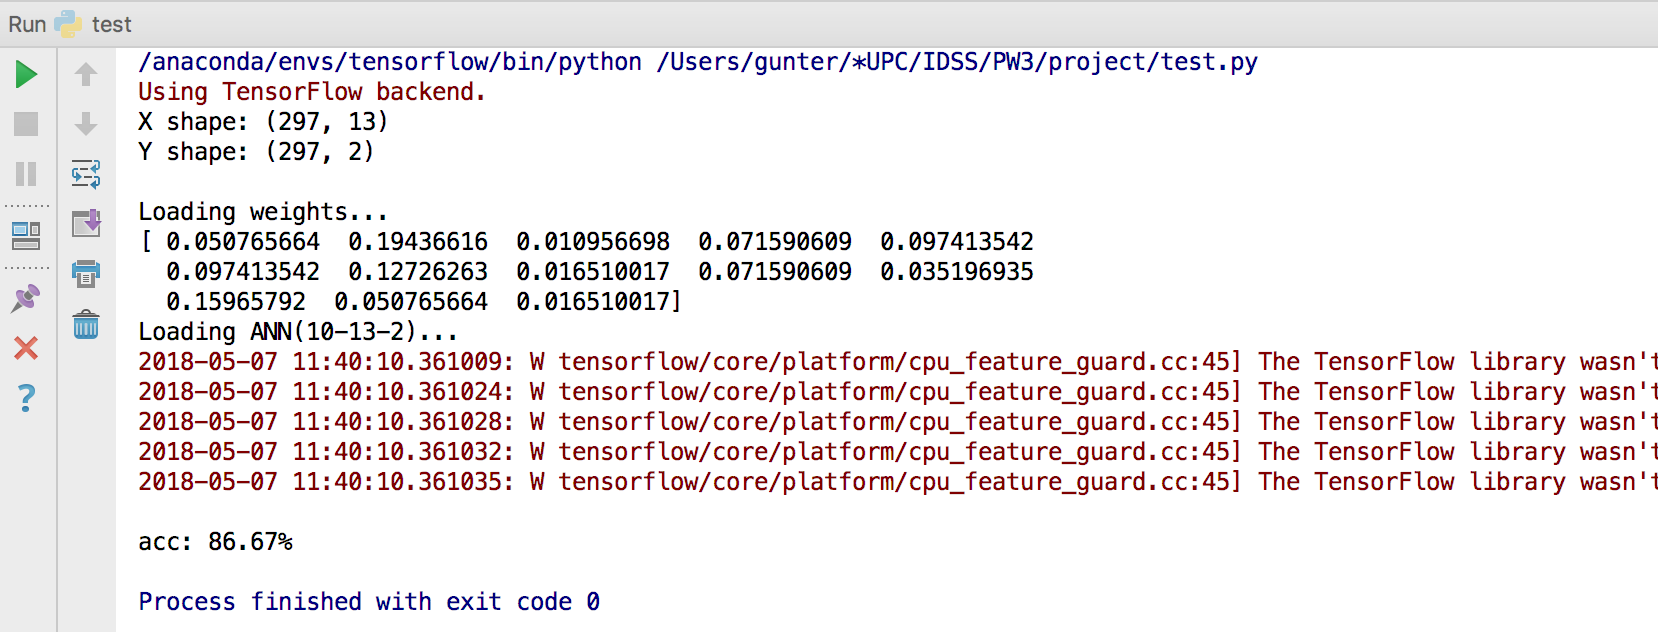
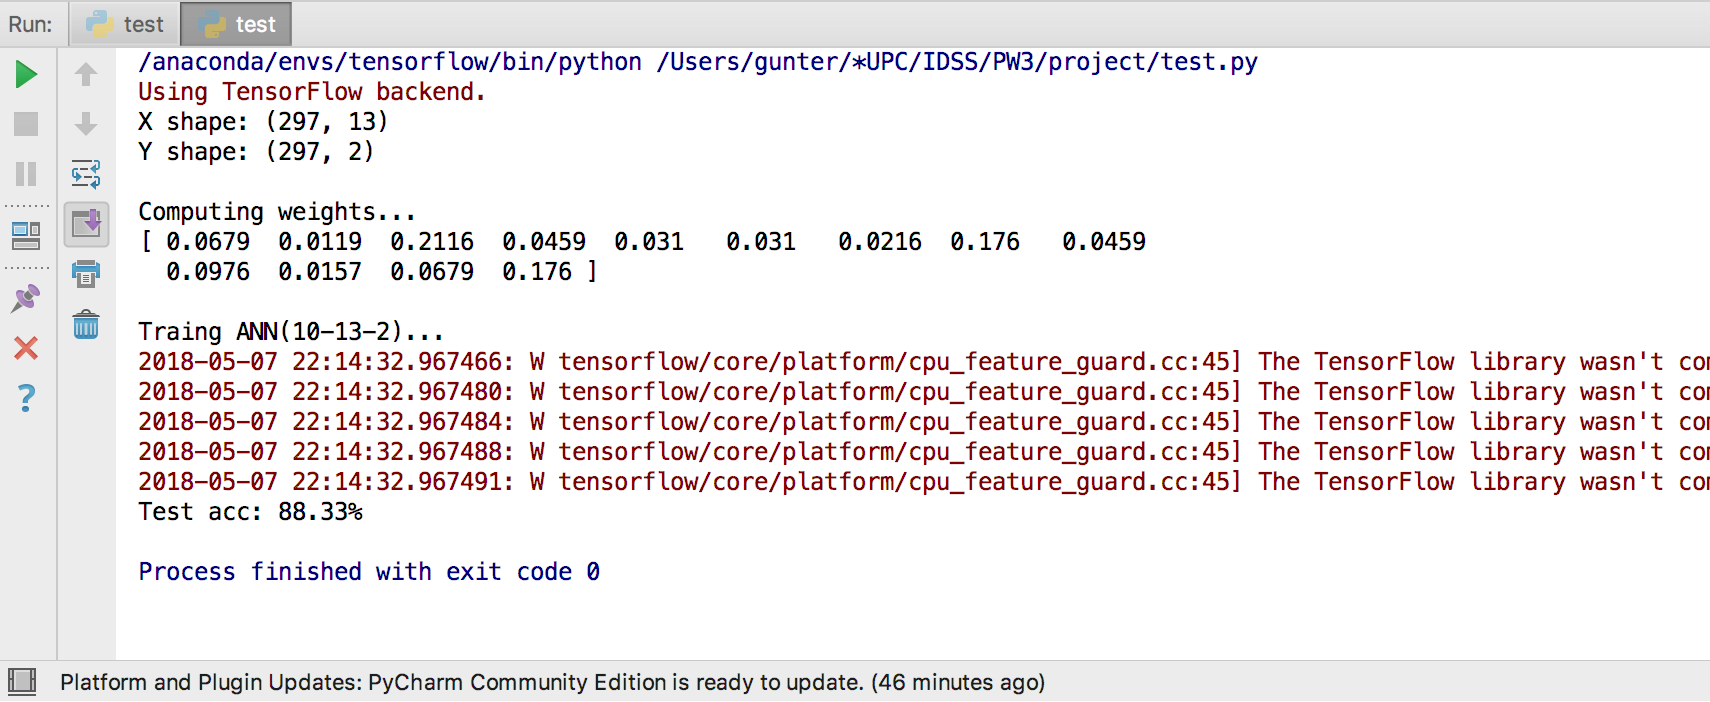
w.round(4)

diff --git a/faphy.py b/faphy.py
@@ -32,8 +32,10 @@ def get_weights():
 
     # Eigenvalue
     alpha = A.sum(axis=0)
-    w = alpha / A.sum()
-    # print('\nWeights:\n', w.round(4))
+    A2 = A / alpha
+    w = A2.sum(axis=1) / (len(A2[0]))
+    w = w.round(4)
+    # print('\nWeights:\n', w)
 
     # Consistency ratio calculation
     maxvalue=w*alpha
@@ -47,5 +49,5 @@ def get_weights():
     # write file
     with open('data/weights', 'w') as f:
         for item in w:
-            f.write(str(item) + ' ')
+            f.write(str(item.round(4)) + ' ')
     return w
